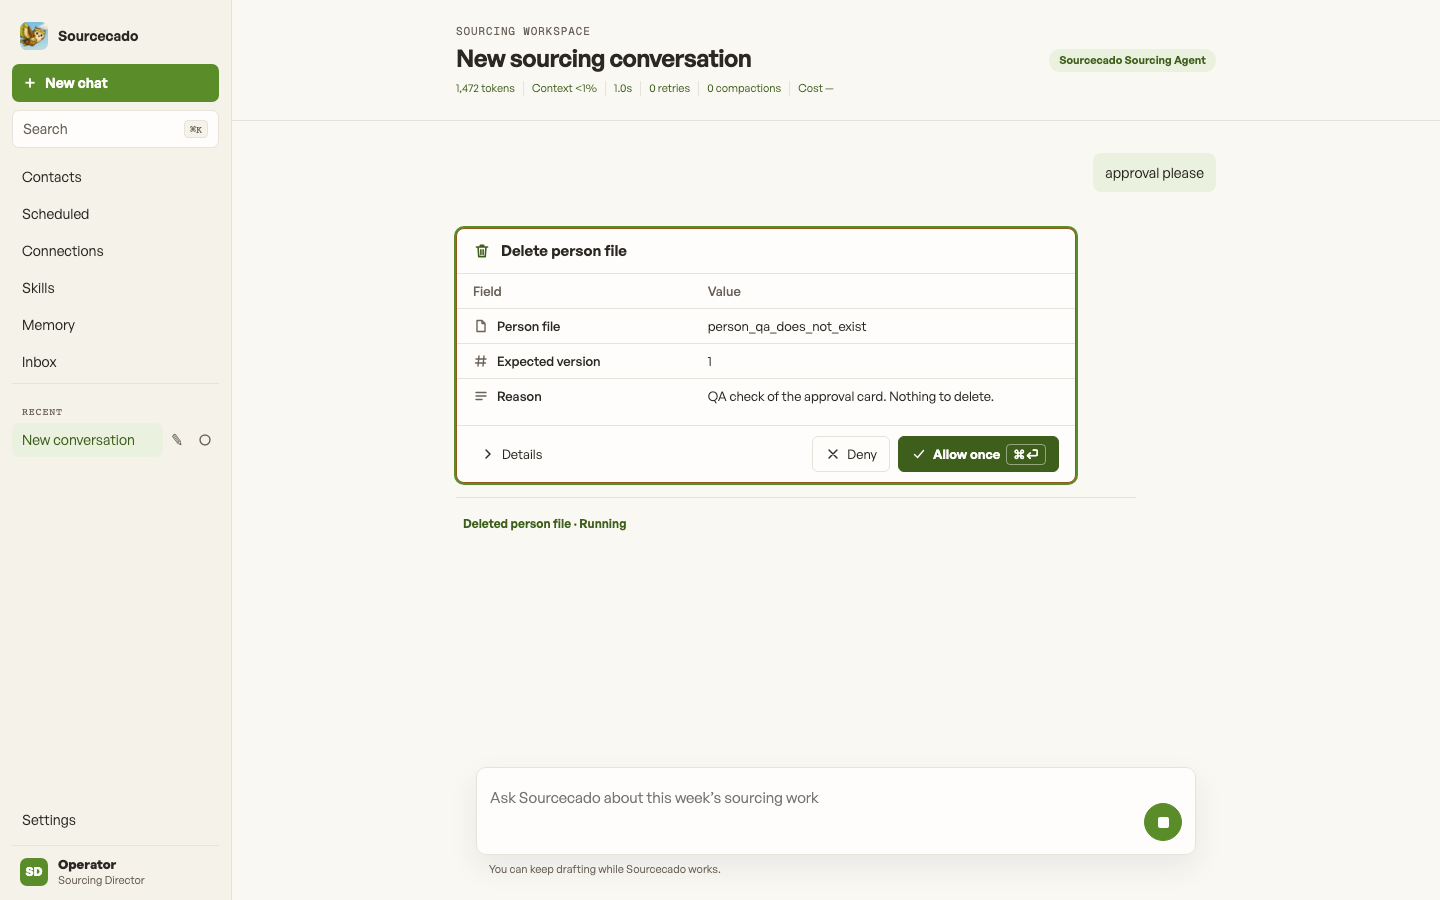
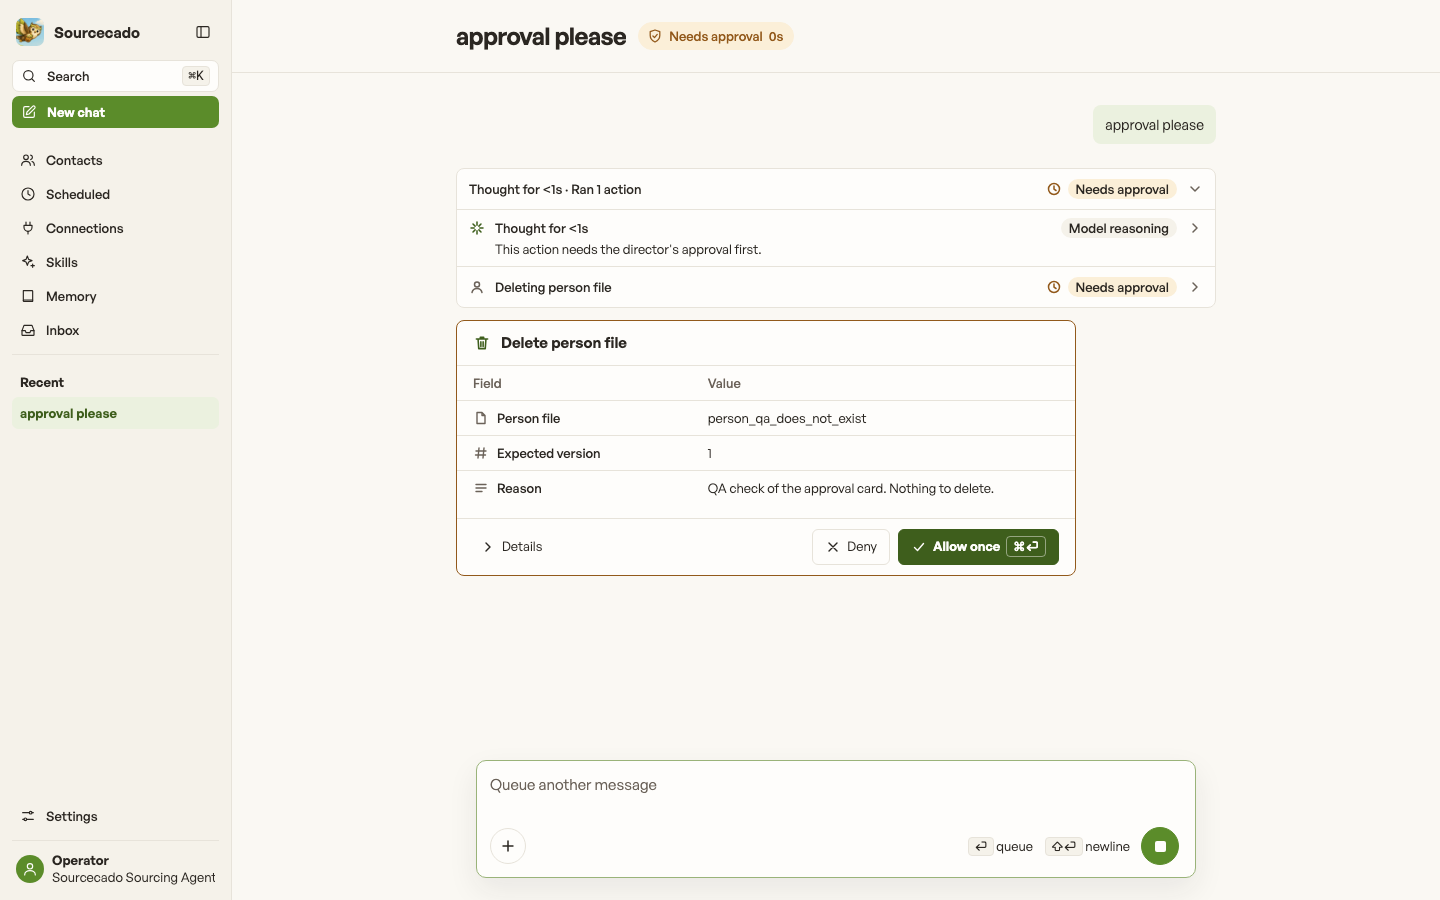
fix(chat): fit the approval card to the merged process layer (#230)
After the rebase onto main (#226 process layer, #228 header):

- The card used <header> and <footer>. Those map to the banner and
  contentinfo roles and collided with the thread header. They are plain
  divs now.
- stepState (processState.ts) now puts a denial first and treats a failed
  result with no decision yet as waiting, so the step row reads Needs
  approval, then Denied. The adapter's failure and isError overrides were
  redundant and are removed.
- One part of the adapter rule is still needed: a denied or undecided call
  keeps no result. AnswerResults draws a result card from any call that has
  a result. For a denied gmail_draft that was an error card, or, with the old
  override, a success-shaped "needs review" card. Dropping the result means
  no card is drawn at any frame.
- The frame-order test now expects "Needs approval" and renders
  AnswerResults for a tool with a result card.

diff --git a/frontend/tests/approvalFrameOrder.test.tsx b/frontend/tests/approvalFrameOrder.test.tsx
@@ -4,6 +4,7 @@ import { afterEach, describe, expect, it, vi } from "vitest";
 
 import { parseChatEvent } from "../src/api";
 import { ActivityGroup } from "../src/chat/ActivityGroup";
+import { AnswerResults } from "../src/chat/AnswerResults";
 import { convertStructuredMessage } from "../src/chat/messageAdapter";
 import { SourcecadoChatStore } from "../src/chat/store";
 
@@ -39,22 +40,28 @@ const FAILURE = {
   state: "failed",
 } as const;
 
-function frames(decision: "denied" | "allowed") {
+function frames(
+  decision: "denied" | "allowed",
+  tool: { name: string; args: Record<string, unknown> } = {
+    name: "board_delete",
+    args: { person_id: "person_qa_does_not_exist" },
+  },
+) {
   return [
     { event_id: "e-1", type: "turn_start", state: "running" },
     {
       event_id: "e-2",
       type: "permission_required",
       id: "call-1",
-      name: "board_delete",
-      arguments: { person_id: "person_qa_does_not_exist" },
+      name: tool.name,
+      arguments: tool.args,
       reason: "consequential: waits for Allow or Deny",
     },
     {
       event_id: "e-3",
       type: "tool_finished",
       id: "call-1",
-      name: "board_delete",
+      name: tool.name,
       ok: false,
       result: { error: decision === "denied" ? "denied by user" : "unknown person" },
       failure: FAILURE,
@@ -63,7 +70,7 @@ function frames(decision: "denied" | "allowed") {
       event_id: "e-4",
       type: "approval_resolved",
       id: "call-1",
-      name: "board_delete",
+      name: tool.name,
       resolution: decision,
       decision: decision === "denied" ? "deny" : "allow",
       actor: "operator",
@@ -122,13 +129,8 @@ describe("a denied approval, frame by frame", () => {
 
     // tool_finished ok=false lands first. The approval is still undecided.
     apply(finished);
-    const waiting = snapshot("failed result, no decision yet");
-    expect(waiting.isError).toBeFalsy();
-    expect(waiting.result).toBeUndefined();
-    expect(
-      (waiting.providerMetadata as { sourcecado: { failure: unknown } }).sourcecado.failure,
-    ).toBeNull();
-    expect(view!.container).toHaveTextContent(/Running/);
+    snapshot("failed result, no decision yet");
+    expect(view!.container).toHaveTextContent(/Needs approval/);
 
     act(() => {
       vi.advanceTimersByTime(1500);
@@ -139,6 +141,7 @@ describe("a denied approval, frame by frame", () => {
     const denied = snapshot("denied");
     expect(denied.approval).toMatchObject({ approved: false });
     expect(view!.container).toHaveTextContent(/Denied/);
+    expect(view!.container).not.toHaveTextContent(/Needs approval/);
 
     for (const line of seen) {
       expect(line, line).not.toMatch(/Failed|Completed/);
@@ -168,5 +171,53 @@ describe("a denied approval, frame by frame", () => {
     const after = render1(store);
     rerender(<ActivityGroup tools={after.tools} messageState={after.state} />);
     expect(container).toHaveTextContent(/Failed/);
+  });
+});
+
+describe("a denied approval for a tool with a result card", () => {
+  afterEach(() => vi.useRealTimers());
+
+  // gmail_draft has a result card in the answer area. The backend's failed
+  // result for a denial is a refusal, not an outcome. No frame may draw a card
+  // from it: not "draft was not created", not "needs review", not a draft.
+  it("draws no result card at any frame", () => {
+    vi.useFakeTimers();
+    const store = new SourcecadoChatStore([{ id: "t", messages: [] }], "t");
+    const apply = (event: Record<string, unknown>) =>
+      act(() => {
+        store.applyChatEvent(
+          parseChatEvent({ ...envelope, ...event } as never) as never,
+        );
+      });
+    const draft = {
+      name: "gmail_draft",
+      args: { to: "alyssa@example.com", subject: "Hello", body: "Full body" },
+    };
+    const [start, permission, finished, resolved] = frames("denied", draft);
+    const seen: string[] = [];
+    let view: ReturnType<typeof render> | null = null;
+    const snapshot = (label: string) => {
+      const { tools } = render1(store);
+      const element = <AnswerResults tools={tools} />;
+      if (view) view.rerender(element);
+      else view = render(element);
+      seen.push(`${label}: [${view.container.textContent}]`);
+    };
+
+    apply(start);
+    apply(permission);
+    snapshot("pending");
+    apply(finished);
+    snapshot("failed result, no decision yet");
+    act(() => {
+      vi.advanceTimersByTime(1500);
+    });
+    snapshot("1.5 seconds later");
+    apply(resolved);
+    snapshot("denied");
+
+    for (const line of seen) {
+      expect(line, line).toBe(line.split(":")[0] + ": []");
+    }
   });
 });

diff --git a/frontend/src/chat/messageAdapter.ts b/frontend/src/chat/messageAdapter.ts
@@ -322,24 +322,25 @@ export function convertStructuredMessage(
       }
       if (part.type === "artifact") return [];
       // The backend closes a denied call with ok=false (tool_finished) a few
-      // milliseconds before it writes the approval receipt. A failed result
-      // with no decision yet is the operator's pending choice, not a failure.
-      // After the decision, a denial is also not a failure.
+      // milliseconds before it writes the approval receipt. For a call the
+      // operator denied, or has not decided yet, that failed result is the
+      // refusal, not an outcome. Leave it out so no result card is drawn from
+      // it. The step row reads the decision from the approval (processState).
       const approvalState = part.approval?.state;
       const undecided =
         approvalState === "pending" ||
         approvalState === "submitting" ||
         approvalState === "failed-submit";
-      const waiting = undecided && part.state === "error";
-      const hideFailure = waiting || approvalState === "denied";
+      const noOutcome =
+        approvalState === "denied" || (undecided && part.state === "error");
       return [{
         type: "tool-call" as const,
         toolCallId: part.id,
         toolName: part.name,
         args: part.arguments as never,
         argsText: JSON.stringify(part.arguments),
-        ...(part.result !== undefined && !waiting ? { result: part.result } : {}),
-        isError: part.state === "error" && !hideFailure,
+        ...(part.result !== undefined && !noOutcome ? { result: part.result } : {}),
+        isError: part.state === "error",
         ...(part.startedAt !== undefined
           ? {
               timing: {
@@ -354,7 +355,7 @@ export function convertStructuredMessage(
           ? {
               providerMetadata: {
                 sourcecado: {
-                  failure: hideFailure ? null : (part.failure ?? null),
+                  failure: part.failure ?? null,
                   recovery: part.recovery ?? null,
                   approvalState: part.approval?.state ?? null,
                   actor: part.approval?.actor ?? null,

diff --git a/frontend/tests/approvalResourceChain.test.ts b/frontend/tests/approvalResourceChain.test.ts
@@ -194,7 +194,11 @@ describe("person-bound approval resources, wire to rendered part", () => {
   });
 });
 
-function resolvedToolPart(decision: "denied" | "allowed", toolOk: boolean) {
+function resolvedToolPart(
+  decision: "denied" | "allowed",
+  toolOk: boolean,
+  options: { stopBeforeDecision?: boolean } = {},
+) {
   const store = new SourcecadoChatStore([{ id: "t", messages: [] }], "t");
   const envelope = {
     version: 2,
@@ -250,7 +254,7 @@ function resolvedToolPart(decision: "denied" | "allowed", toolOk: boolean) {
           },
         }),
   });
-  apply({
+  if (!options.stopBeforeDecision) apply({
     event_id: "e-4",
     type: "approval_resolved",
     id: "call-1",
@@ -287,12 +291,18 @@ describe("a resolved approval, store to rendered part", () => {
     });
   });
 
-  it("does not turn a denial into a failed step", () => {
+  it("gives a denied call no result, so no result card can be drawn from the refusal", () => {
     const part = resolvedToolPart("denied", false);
 
     expect(part.approval?.approved).toBe(false);
-    expect(part.isError).toBe(false);
-    expect(part.providerMetadata.sourcecado.failure).toBeNull();
+    expect(part).not.toHaveProperty("result");
+  });
+
+  it("holds back a failed result while the approval is still undecided", () => {
+    const part = resolvedToolPart("denied", false, { stopBeforeDecision: true });
+
+    expect(part.approval).not.toHaveProperty("approved");
+    expect(part).not.toHaveProperty("result");
   });
 
   it("still reports a failure for an allowed call that failed", () => {

diff --git a/frontend/src/chat/ApprovalCard.tsx b/frontend/src/chat/ApprovalCard.tsx
@@ -306,12 +306,12 @@ export function ApprovalCard({
         armed.current = true;
       }}
     >
-      <header className="sourcecado-approval-head">
+      <div className="sourcecado-approval-head">
         <ApprovalIcon name={view.icon} className="sourcecado-approval-action" />
         <h2 ref={headingRef} tabIndex={-1}>
           {view.title}
         </h2>
-      </header>
+      </div>
       {view.calendarWrite ? (
         <CalendarApprovalSummary
           args={part.args as Readonly<Record<string, unknown>>}
@@ -364,7 +364,7 @@ export function ApprovalCard({
       ) : submitting ? (
         <p className="sourcecado-approval-status">Submitting decision…</p>
       ) : null}
-      <footer className="sourcecado-approval-foot">
+      <div className="sourcecado-approval-foot">
         <button
           type="button"
           className="sourcecado-approval-toggle"
@@ -411,7 +411,7 @@ export function ApprovalCard({
             </button>
           ) : null}
         </div>
-      </footer>
+      </div>
     </section>
   );
 }
